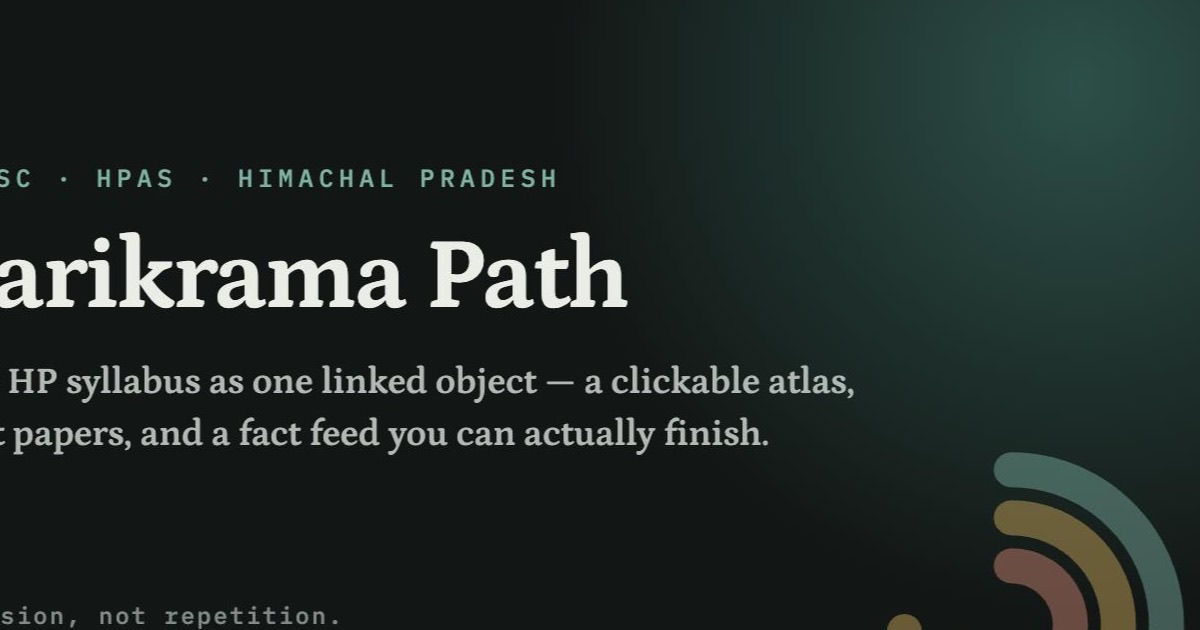
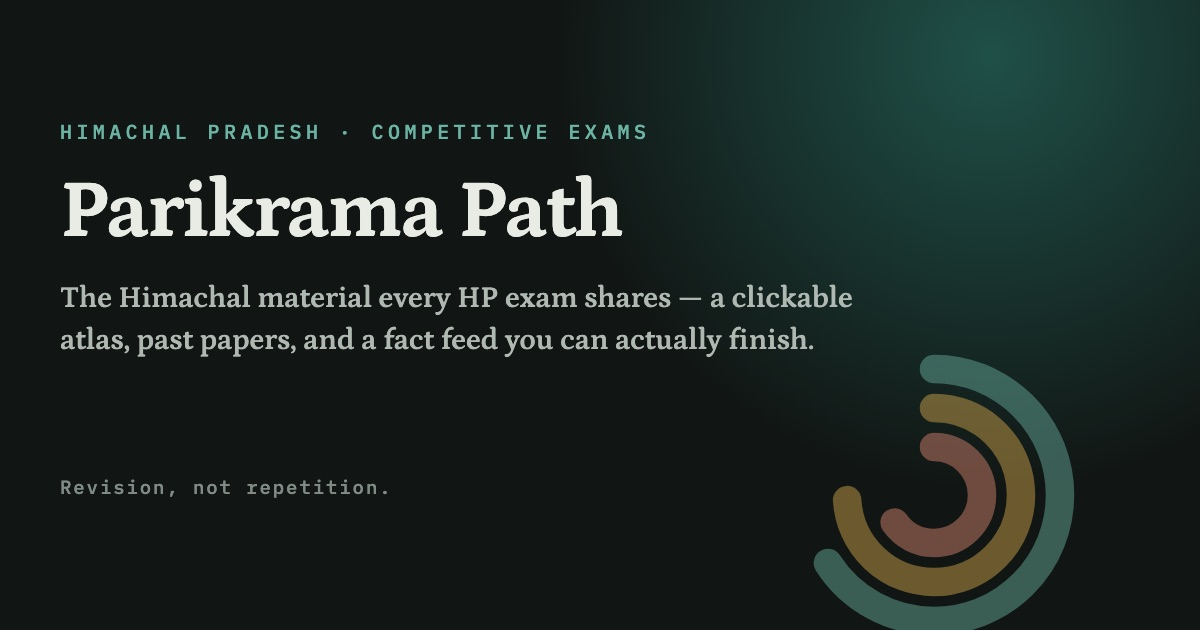
chore: the share card matches the pages it is attached to
og.jpg read "HPPSC · HPAS · HIMACHAL PRADESH" — a kicker that now contradicts
every page it is attached to, since the site no longer sells itself as an
HPAS-only app. Re-rendered the same card with two lines changed: the kicker
is now "Himachal Pradesh · competitive exams" and the description names the
shared material rather than one exam.

Rendered headlessly at 1240x780, cropped to 1200x630, JPEG q82 — 78 KB.
Layout, palette and rings are unchanged from the card it replaces.

Also bumps the service worker cache to v66 so clients pick up the new card
and the exams data. data/exams.js was already in ASSETS from Task 1; verified
rather than assumed, since a missing entry only shows up offline.

diff --git a/sw.js b/sw.js
@@ -1,6 +1,6 @@
 /* Parikrama Path — offline cache.
    Bump CACHE when any asset changes; old caches are purged on activate. */
-const CACHE = "parikrama-v65";
+const CACHE = "parikrama-v66";
 const ASSETS = [
   "./", "index.html",
   "app/tokens.css", "app/layout.css", "app/components.css", "app/app.js", "app/trends.js", "app/logo.js", "app/mapkit.js", "app/credits.js", "app/rounds.js", "app/sync.js", "app/firebase-config.js", "app/auth.js",
